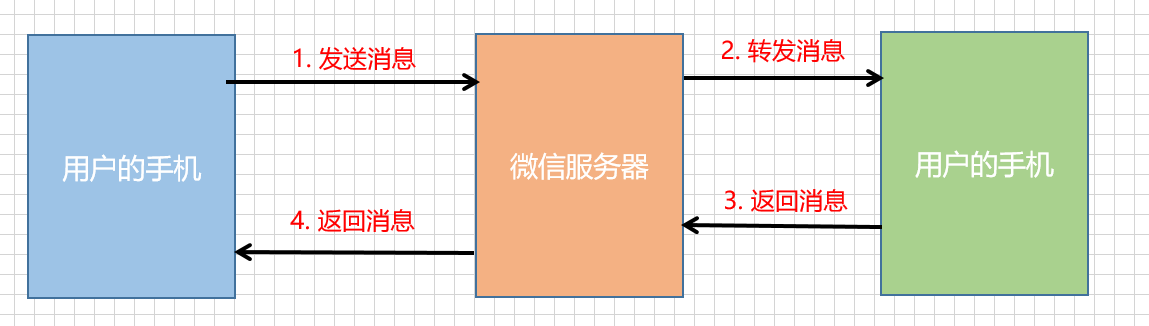
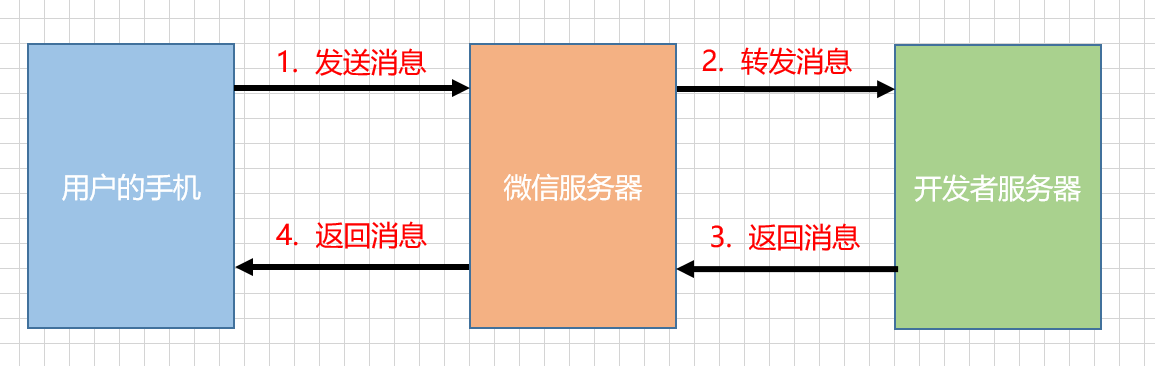
微信

diff --git a/source/_posts/微信公众号开发笔记.md b/source/_posts/微信公众号开发笔记.md
@@ -43,17 +43,28 @@ categories:
 
 {% asset_img Snipaste_2019-01-06_13-38-55.png %}
 
+1. 用户在微信的手机客户端向公众号发送一条消息，这条消息会发送到微信服务器
+2. 微信服务器接收到这条消息之后，再把它转发到开发者的服务器
+3. 开发者服务器根据消息内容，执行一些业务逻辑，然后生成一条回复消息再发送到微信服务器
+4. 微信服务器收到了回复消息，再返回给用户的手机
+
 # 外网映射工具
 
 为了开发时方便调试，需要一个外网映射工具，把微信服务器的请求转发到自己的开发电脑上，这样就可以方便地调试代码了
 
 工具目前推荐使用[natapp](https://natapp.cn/)，官网有一个[一分钟快速使用教程](https://natapp.cn/article/natapp_newbie)可以看，看了就会用了
 
+# 公众平台测试账号
+
+如果没有公众号的话，可以申请一个测试用的公众号，这个公众号的权限是最全的，什么功能都能用
+
+文档看这里：[微信公众平台技术文档-开始开发-接口测试号申请](https://mp.weixin.qq.com/wiki?t=resource/res_main&id=mp1421137522)
+
 # 开发模式接入
 
 在[微信公众平台技术文档-开发开发-接入指南](https://mp.weixin.qq.com/wiki?t=resource/res_main&id=mp1421135319)有具体说明
 
-在配置的时候，微信会发送一个 HTTP GET 请求到我们的服务器，携带 4 个参数
+在配置的时候，微信服务器会发送一个 HTTP GET 请求到我们的服务器，携带 4 个参数
 
 |参数|描述|
 |:--|:--|
@@ -68,7 +79,12 @@ categories:
 2. 再把字符串进行 SHA1 加密得到一个新的字符串
 3. 判断新的字符串和 `signature` 是否相等。如果相等，说明这个请求是来自微信服务器的请求，不是非法请求，于是把 `echostr` 原样返回
 
+验证参数合法性的的工具类
+
 ```java
+import org.apache.commons.codec.digest.DigestUtils;
+import java.util.Arrays;
+
 public static boolean checkSignature(String token, String signature, String timestamp, 
         String nonce, String echostr) {
     String[] parameters = {token, timestamp, nonce};
@@ -85,24 +101,287 @@ public static boolean checkSignature(String token, String signature, String time
 }
 ```
 
+SpringMVC 的 Controler 层
+
 ```java
 @Controller
+@RequestMapping("wx/portal")
 public class WxController {
 
-    @GetMapping("wx")
-    public void validate(String signature, String timestamp, String nonce, String echostr, 
-        HttpServletResponse response) {
-        PrintWriter out = null;
-		try {
-            out = response.getWriter();
-			if(checkSignature(signature, timestamp, nonce)){
-				out.write(echostr);
-			}
-		} catch (IOException e) {
-			e.printStackTrace();
-		} finally {
-			out.close();
-		}
+    @GetMapping(produces = "text/plain;charset=utf-8")
+    @ResponseBody
+    public String auth(String signature, String timestamp, String nonce, String echostr) {
+        if (WxUtils.checkSignature(signature, timestamp, nonce)) {
+            return echostr;
+        } else {
+            return "非法请求";
+        }
     }
 }
 ```
+
+# 接收用户消息
+
+当用户发送消息到微信服务器时，微信服务器会使用 HTTP POST 转发消息到我们的服务器，URL 和“接入微信服务器”中配置的 URL 时一样的，只是 HTTP 请求方法从 GET 变成了 POST
+
+目前可以接收的用户消息有：
+
+- 文本消息
+- 图片消息
+- 语音消息
+- 视频消息
+- 小视频消息
+- 地理位置消息
+- 链接消息
+
+可以看这篇文档[微信公众平台技术文档-消息管理-接收普通消息](https://mp.weixin.qq.com/wiki?t=resource/res_main&id=mp1421140453)
+
+# 回复用户消息
+
+用户发来消息，我们的服务器就需要回复消息，目前可以回复的消息有：
+
+- 文本消息
+- 图片消息
+- 语音消息
+- 视频消息
+- 音乐消息
+- 图文消息
+
+可以看这篇文档[微信公众平台技术文档-消息管理-被动回复用户消息](https://mp.weixin.qq.com/wiki?t=resource/res_main&id=mp1421140543)
+
+# 一个接收用户文字消息并原样返回的例子
+
+用户给公众号发送一条“Hello”的文字，公众号回复“我收到了你的消息：Hello”
+
+微信服务器会把用户发送的消息使用 HTTP POST 的方式转发到开发者的服务器，所以 Controller 层监听一下 POST 请求就行。同时不要忘了对请求进行合法性验证
+
+```java
+@Controller
+@RequestMapping("wx/portal")
+public class WxController {
+
+    @PostMapping(produces = "application/xml;charset=UTF-8")
+    @ResponseBody
+    public String data(@RequestBody String requestBody,
+                       String signature,
+                       String timestamp,
+                       String nonce) {
+        // 对请求进行合法性验证
+        if (!WxUtils.checkSignature(signature, timestamp, nonce)) {
+            throw new IllegalArgumentException("非法请求，可能属于伪造的请求！");
+        }
+
+        // 业务逻辑
+        // 返回消息
+    }
+}
+```
+
+接受到了微信服务器转发的消息，于是对这条消息解析，然后做一些业务逻辑，最后再返回消息。业务逻辑根据不同的场景有不同的实现，要做的工作是：
+
+- 消息解析
+- 封装返回的消息
+
+微信服务器传过来的消息都是 XML 格式，公众号服务器传回去的消息也是 XML 格式。用户发送一条文字消息是，微信服务器会发过来一条这样的消息
+
+```xml
+<xml>
+  <ToUserName><![CDATA[asdfdsafasdfsadf]]></ToUserName>  
+  <FromUserName><![CDATA[sadfasdfasdf]]></FromUserName>  
+  <CreateTime>1548293882</CreateTime>  
+  <MsgType><![CDATA[text]]></MsgType>  
+  <Content><![CDATA[我是消息内容]]></Content>  
+  <MsgId>6649213423423412343</MsgId> 
+</xml>
+```
+
+可以以此写一个 Jave Bean
+
+```java
+public class TextMessage {
+
+    private String ToUserName;
+    private String FromUserName;
+    private long CreateTime;
+    private String MsgType;
+    private String Content;
+    private long MsgId;
+
+    // getter
+
+    // setter
+}
+```
+
+借助 dom4j 实现消息解析
+
+```java
+public class MessageUtil {
+
+    /**
+     * 解析微信传过来的消息，封装在 Map 中
+     */
+    public static Map<String, String> parseXml(String xmlStr) {
+        // 将解析结果存储在HashMap中
+        Map<String, String> result = new HashMap<>();
+
+        Document document;
+        try {
+            // 读取XML字符串
+            document = DocumentHelper.parseText(xmlStr);
+        } catch (DocumentException e) {
+            return null;
+        }
+        // 获取根节点
+        Element bookstore = document.getRootElement();
+        // 获取子节点的迭代器
+        Iterator iterator = bookstore.elementIterator();
+        // 遍历迭代器
+        while (iterator.hasNext()) {
+            Element element = (Element) iterator.next();
+            result.put(element.getName(), element.getText());
+        }
+        return result;
+    }
+}
+```
+
+返回的消息，微信也有格式要求，比如
+
+```xml
+<xml>
+  <ToUserName><![CDATA[afdsadfsadf]]></ToUserName>
+  <FromUserName><![CDATA[adsfadsf]]></FromUserName>
+  <CreateTime><![CDATA[1548295128755]]></CreateTime>
+  <MsgType><![CDATA[text]]></MsgType>
+  <Content><![CDATA[接收到的消息是：看看咯啦咯]]></Content>
+  <MsgId><![CDATA[123]]></MsgId>
+</xml>
+```
+
+借助 xtream 实现一个消息封装
+
+```java
+public class MessageUtil {
+
+    private static final String CDATA_PREFIX = "<![CDATA[";
+    private static final String CDATA_SUFFIX = "]]>";
+
+    private static XStream getXStream() {
+        return new XStream(new XppDriver() {
+            @Override
+            public HierarchicalStreamWriter createWriter(Writer out) {
+                return new PrettyPrintWriter(out) {
+                    @Override
+                    protected void writeText(QuickWriter writer, String text) {
+                        writer.write(CDATA_PREFIX);
+                        writer.write(text);
+                        writer.write(CDATA_SUFFIX);
+                    }
+                };
+            }
+        });
+    }
+
+    /**
+     * Java Bean 转换成 XML 字符串
+     */
+    public static String messageToXml(TextMessage textMessage) {
+        XStream xStream = getXStream();
+        xStream.alias("xml", textMessage.getClass());
+        return xStream.toXML(textMessage);
+    }
+}
+```
+
+现在就可以写 Controller 层的代码了
+
+```java
+@PostMapping(produces = "application/xml;charset=UTF-8")
+@ResponseBody
+public String data(@RequestBody String requestBody,
+                    String signature,
+                    String timestamp,
+                    String nonce) {
+    if (!WxUtils.checkSignature(signature, timestamp, nonce)) {
+        throw new IllegalArgumentException("非法请求，可能属于伪造的请求！");
+    }
+
+    Map<String, String> map = MessageUtil.parseXml(requestBody);
+
+    TextMessage textMessage = new TextMessage();
+    textMessage.setFromUserName(map.get("ToUserName"));
+    textMessage.setToUserName(map.get("FromUserName"));
+    textMessage.setCreateTime(System.currentTimeMillis());
+    textMessage.setMsgType("text");
+    textMessage.setContent("接收到的消息是：" + map.get("Content"));
+    textMessage.setMsgId(123456);
+
+    return MessageUtil.messageToXml(textMessage);
+}
+```
+
+要注意的是 `ToUserName`、`FromUserName` 接收和发送时，两者是相反的
+
+# 接收事件推送
+
+用户和公众号交互时，会产生一些事件，比如用户关注了这公众号，微信服务器就会发送一个消息到我们的服务器；用户对公众号取消关注，微信服务器也会发送一个消息到我们的服务器
+
+目前会推送的事件有：
+
+- 关注/取消关注事件
+- 扫描带参数二维码事件
+- 上报地理位置事件
+- 自定义菜单事件
+- 点击菜单拉取消息时的事件推送
+- 点击菜单跳转链接时的事件推送
+
+可以看这篇文档[微信公众平台技术文档-消息管理-接收事件推送](https://mp.weixin.qq.com/wiki?t=resource/res_main&id=mp1421140454)
+
+# 获取access_token
+
+公众号服务器要想主动调用微信的服务器的话，先要获取到 access_token （接口访问凭证）才能调用。因为每时每刻都有请求在调用微信服务器，微信服务器通过 access_token 才能判断这个请求是哪一个公众号发来的请求。同时为了安全，access_token 有时间限制，一般是 7200 秒，超过了这个时间，access_token 就失效了
+
+可以看这篇文档[微信公众平台技术文档-开始开发-获取access_token](https://mp.weixin.qq.com/wiki?t=resource/res_main&id=mp1421140183)
+
+可以利用一个定时任务来获取 access_token，然后把获取到的 access_token 保存到内存或者数据库中
+
+```java
+@Component
+public class AccessTokenTask {
+
+    private static Logger log = LoggerFactory.getLogger(AccessTokenTask.class);
+
+    // 第一次延迟 1 秒执行，之后每隔 7000 秒执行
+    @Scheduled(initialDelay = 1000, fixedDelay = 7000 * 1000)
+    public void getAccessToken() {
+        OkHttpClient client = new OkHttpClient();
+
+        HttpUrl.Builder urlBuilder = HttpUrl
+                .get("https://api.weixin.qq.com/cgi-bin/token?grant_type=client_credential")
+                .newBuilder()
+                .addQueryParameter("appid", WxConfig.APP_ID)
+                .addQueryParameter("secret", WxConfig.SECRET);
+
+        Request request = new Request.Builder().url(urlBuilder.build()).build();
+
+        try {
+            Response response = client.newCall(request).execute();
+            String jsonStr = response.body().string();
+            // 解析 json，获取 access_token
+            String accessToken = JSONUtil.getValue(jsonStr, "access_token");
+            if (StringUtils.isNotEmpty(accessToken)) {
+                // 保存 access_token
+            } else {
+                log.error("access_token获取失败，微信服务器返回：{}", jsonStr);
+            }
+        } catch (IOException e) {
+            log.error("access_token获取失败", e);
+        }
+    }
+}
+```
+
+不要忘了在启动类加上 `@EnableScheduling` 注解开启定时任务
+
+# 自定义菜单

diff --git a/source/_posts/利用Dom4j实现XML文件读取与写入.md b/source/_posts/利用Dom4j实现XML文件读取与写入.md
@@ -156,3 +156,12 @@ public class HelloWorld {
 }
 ```
 
+# 额外的内容
+
+如果读取的不是 XML 文件，而是 XML 字符串的话，dom4j 提供了一个工具类
+
+```java
+Document document = DocumentHelper.parseText(xmlStr);
+```
+
+这样就可以得到 `Document` 对象了，接下来的操作就一模一样了
